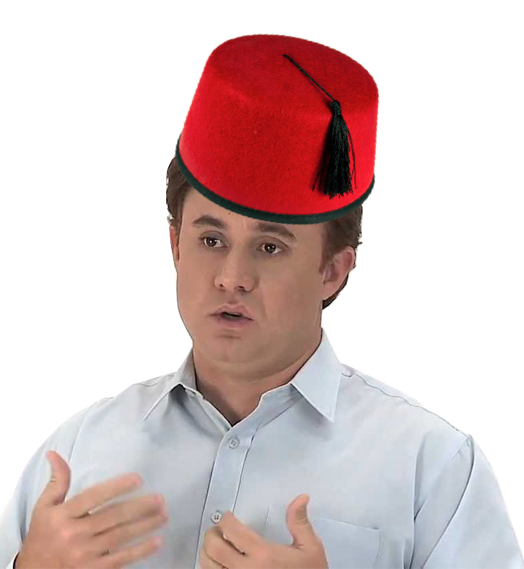
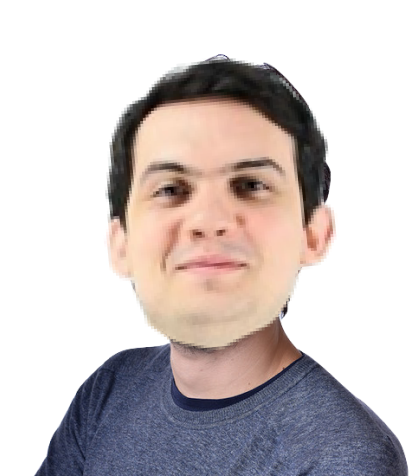
Swap CEOs with ximis and random shows when time ended

diff --git a/react/index.js b/react/index.js
@@ -293,33 +293,33 @@ class App extends Component {
     }
 
     // RANDOM ANIMATE FERAS WHEN TIME IS UP
-    // if (timeEnded) {
-    //   const rand = getRandomInt(0,20)
-    //   const randMs = (Math.random() * 100) + 10
-    //   if (minutes === 0 && rand % 20 === 0) {
-    //     this.animateRandomFera(true)
-    //   } else if (minutes === 1 && rand % 10 === 0) {
-    //     setTimeout(() => this.animateRandomFera(true), randMs + 250)
-    //     setTimeout(() => this.animateRandomFera(true), randMs + 500)
-    //   } else if (minutes === 2 && rand % 5 === 0) {
-    //     setTimeout(() => this.animateRandomFera(true), randMs + 13)
-    //     setTimeout(() => this.animateRandomFera(), randMs + 270)
-    //     setTimeout(() => this.animateRandomFera(), randMs + 500)
-    //   } else if (minutes === 3 && rand % 4 === 0) {
-    //     setTimeout(() => this.animateRandomFera(), randMs + 13)
-    //     setTimeout(() => this.animateRandomFera(), randMs + 500)
-    //     setTimeout(() => this.animateRandomFera(), randMs + 750)
-    //   } else if (minutes === 4 && rand % 2 === 0) {
-    //     setTimeout(() => this.animateRandomFera(), randMs + 10)
-    //     setTimeout(() => this.animateRandomFera(), randMs + 500)
-    //     setTimeout(() => this.animateRandomFera(), randMs + 750)
-    //   } else if (minutes > 4) {
-    //     setTimeout(() => this.animateRandomFera(), randMs + 10)
-    //     setTimeout(() => this.animateRandomFera(), randMs + 250)
-    //     setTimeout(() => this.animateRandomFera(), randMs + 500)
-    //     setTimeout(() => this.animateRandomFera(), randMs + 750)
-    //   }
-    // }
+    if (timeEnded) {
+      const rand = getRandomInt(0,20)
+      const randMs = (Math.random() * 100) + 10
+      if (minutes === 0 && rand % 20 === 0) {
+        this.animateRandomFera(true)
+      } else if (minutes === 1 && rand % 10 === 0) {
+        setTimeout(() => this.animateRandomFera(true), randMs + 250)
+        setTimeout(() => this.animateRandomFera(true), randMs + 500)
+      } else if (minutes === 2 && rand % 5 === 0) {
+        setTimeout(() => this.animateRandomFera(true), randMs + 13)
+        setTimeout(() => this.animateRandomFera(), randMs + 270)
+        setTimeout(() => this.animateRandomFera(), randMs + 500)
+      } else if (minutes === 3 && rand % 4 === 0) {
+        setTimeout(() => this.animateRandomFera(), randMs + 13)
+        setTimeout(() => this.animateRandomFera(), randMs + 500)
+        setTimeout(() => this.animateRandomFera(), randMs + 750)
+      } else if (minutes === 4 && rand % 2 === 0) {
+        setTimeout(() => this.animateRandomFera(), randMs + 10)
+        setTimeout(() => this.animateRandomFera(), randMs + 500)
+        setTimeout(() => this.animateRandomFera(), randMs + 750)
+      } else if (minutes > 4) {
+        setTimeout(() => this.animateRandomFera(), randMs + 10)
+        setTimeout(() => this.animateRandomFera(), randMs + 250)
+        setTimeout(() => this.animateRandomFera(), randMs + 500)
+        setTimeout(() => this.animateRandomFera(), randMs + 750)
+      }
+    }
 
     const totalTime = (initialMinutes * 60) + initialSeconds
     const remainingTime = (minutes * 60) + seconds
